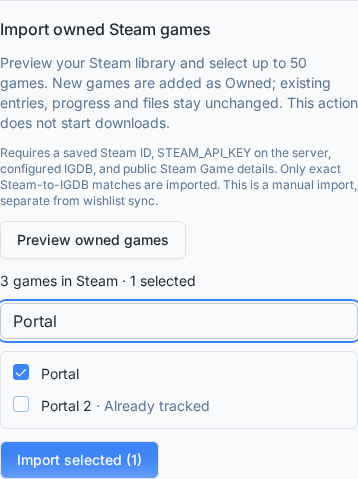
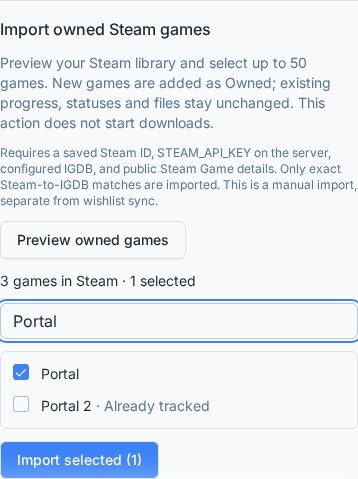
Batch Steam metadata and link existing library entries

Changed region(s): [[0.0, 0.2046, 1.0, 0.2923]]

diff --git a/server/steam-library-routes.ts b/server/steam-library-routes.ts
@@ -5,8 +5,9 @@ import { config } from "./config.js";
 import { storage } from "./storage.js";
 import { steamService } from "./steam.js";
 import { igdbClient } from "./igdb.js";
-import { quickAddGameByTitle } from "./game-quick-add.js";
-import type { User } from "../shared/schema.js";
+import { getContentFilterFlags, isContentFiltered } from "./content-filter.js";
+import { normalizeInitialReleaseStatus } from "./game-status.js";
+import { insertGameSchema, type User } from "../shared/schema.js";
 
 export const steamLibraryRoutes = Router();
 const importing = new Set<string>();
@@ -81,6 +82,15 @@ steamLibraryRoutes.post("/api/steam/library/import", async (req, res) => {
     const library = await storage.getUserGames(user.id, true);
     const tracked = new Set(library.map((game) => game.steamAppId));
     const mappings = await igdbClient.getGameIdsBySteamAppIds(ids.filter((id) => !tracked.has(id)));
+    const byIgdb = new Map(
+      library.filter((game) => game.igdbId != null).map((game) => [game.igdbId!, game])
+    );
+    const newIgdbIds = [...new Set(mappings.values())].filter((id) => !byIgdb.has(id));
+    const [details, filterFlags] = await Promise.all([
+      igdbClient.getGamesByIds(newIgdbIds),
+      getContentFilterFlags(user.id),
+    ]);
+    const detailsById = new Map(details.map((game) => [game.id, game]));
     const results: Array<{
       steamAppId: number;
       title: string;
@@ -98,13 +108,37 @@ steamLibraryRoutes.post("/api/steam/library/import", async (req, res) => {
         continue;
       }
       try {
-        const result = await quickAddGameByTitle(user.id, game.title, {
+        const existing = byIgdb.get(igdbId);
+        if (existing) {
+          // Link an exact match once so later previews recognize it. Never replace
+          // another edition's App ID or alter the existing game's status/progress.
+          if (existing.steamAppId == null) {
+            await storage.updateGame(existing.id, { steamAppId: id });
+            existing.steamAppId = id;
+          }
+          results.push({ ...game, outcome: "duplicate" });
+          continue;
+        }
+        const detail = detailsById.get(igdbId);
+        if (!detail) {
+          results.push({ ...game, outcome: "not_found" });
+          continue;
+        }
+        const data = insertGameSchema.parse({
+          ...igdbClient.formatGameData(detail),
+          userId: user.id,
           igdbId,
           steamAppId: id,
           status: "owned",
           source: "steam",
         });
-        results.push({ ...game, outcome: result.outcome });
+        if (isContentFiltered(data, filterFlags)) {
+          results.push({ ...game, outcome: "not_found" });
+          continue;
+        }
+        const added = await storage.addGame(normalizeInitialReleaseStatus(data));
+        byIgdb.set(igdbId, added);
+        results.push({ ...game, outcome: "added" });
       } catch {
         // Keep successful rows and let the user retry only failures. Never log provider URLs/keys.
         results.push({ ...game, outcome: "failed" });

diff --git a/server/__tests__/steam_library.test.ts b/server/__tests__/steam_library.test.ts
@@ -22,7 +22,7 @@ vi.mock("../steam.js", () => ({ steamService: { getOwnedGames: fixtures.owned } 
 vi.mock("../igdb.js", () => ({
   igdbClient: {
     getGameIdsBySteamAppIds: fixtures.mappings,
-    getGameById: fixtures.game,
+    getGamesByIds: (ids: number[]) => Promise.all(ids.map((id) => fixtures.game(id))),
     formatGameData: (game: { id: number; name: string; isAdultContent?: boolean }) => ({
       igdbId: game.id,
       title: game.name,
@@ -152,7 +152,7 @@ describe.each(activeTestDialects())("Steam owned-library (%s)", (dialect) => {
   });
 
   it("keeps duplicate rows when another row fails and lets failed rows retry", async () => {
-    fixtures.game.mockRejectedValueOnce(new Error("IGDB unavailable"));
+    const add = vi.spyOn(ctx.storage, "addGame").mockRejectedValueOnce(new Error("Database busy"));
     const response = await request(app)
       .post("/api/steam/library/import")
       .send({ appIds: [10, 20] });
@@ -168,6 +168,58 @@ describe.each(activeTestDialects())("Steam owned-library (%s)", (dialect) => {
           .send({ appIds: [20] })
       ).body.results[0].outcome
     ).toBe("added");
+    add.mockRestore();
+  });
+
+  it("links an existing IGDB entry so future previews recognize it without changing progress", async () => {
+    const legacy = await ctx.storage.addGame({
+      userId,
+      igdbId: 300,
+      title: "Legacy",
+      status: "playing",
+      userRating: 8,
+    });
+    await ctx.storage.updateGame(legacy.id, { userRating: 8 });
+    fixtures.owned.mockResolvedValue([{ steamAppId: 30, title: "Legacy" }]);
+    fixtures.mappings.mockResolvedValue(new Map([[30, 300]]));
+    expect(
+      (
+        await request(app)
+          .post("/api/steam/library/import")
+          .send({ appIds: [30] })
+      ).body.results[0].outcome
+    ).toBe("duplicate");
+    expect(await ctx.storage.getGame(legacy.id)).toMatchObject({
+      steamAppId: 30,
+      status: "playing",
+      userRating: 8,
+    });
+    expect((await request(app).get("/api/steam/library")).body.games[0].alreadyTracked).toBe(true);
+    expect(fixtures.game).not.toHaveBeenCalled();
+  });
+
+  it("batches metadata and loads the library once, deduplicating IDs added in the same batch", async () => {
+    fixtures.owned.mockResolvedValue([
+      { steamAppId: 40, title: "Edition A" },
+      { steamAppId: 50, title: "Edition B" },
+    ]);
+    fixtures.mappings.mockResolvedValue(
+      new Map([
+        [40, 400],
+        [50, 400],
+      ])
+    );
+    const reads = vi.spyOn(ctx.storage, "getUserGames");
+    const result = await request(app)
+      .post("/api/steam/library/import")
+      .send({ appIds: [40, 50] });
+    expect(result.body.results.map((row: { outcome: string }) => row.outcome)).toEqual([
+      "added",
+      "duplicate",
+    ]);
+    expect(reads).toHaveBeenCalledTimes(1);
+    expect(fixtures.game).toHaveBeenCalledTimes(1);
+    reads.mockRestore();
   });
 
   it("rejects a simultaneous import for the same account", async () => {

diff --git a/client/src/components/SteamLibraryImport.tsx b/client/src/components/SteamLibraryImport.tsx
@@ -17,7 +17,7 @@ interface ImportResult {
 }
 const RESULT_LABELS = {
   added: "Added as Owned",
-  duplicate: "Already tracked — kept unchanged",
+  duplicate: "Already tracked — progress preserved",
   not_found: "No eligible IGDB match — skipped",
   failed: "Import failed — retry this game",
 };
@@ -77,7 +77,7 @@ export function SteamLibraryImport() {
       </h3>
       <p className="text-sm text-muted-foreground">
         Preview your Steam library and select up to 50 games. New games are added as Owned; existing
-        entries, progress and files stay unchanged. This action does not start downloads.
+        progress, statuses and files stay unchanged. This action does not start downloads.
       </p>
       <p className="text-xs text-muted-foreground">
         Requires a saved Steam ID, STEAM_API_KEY on the server, configured IGDB, and public Steam

diff --git a/server/game-quick-add.ts b/server/game-quick-add.ts
@@ -39,8 +39,6 @@ export async function quickAddGameByTitle(
     source?: Game["source"];
     /** Exact IGDB id (e.g. from a request app); skips the free-text title match. */
     igdbId?: number;
-    /** Exact Steam mapping supplied by the official owned-library importer. */
-    steamAppId?: number;
     /** Platform the release search should target instead of the account default. */
     targetPlatform?: { id: number; name: string };
   } = {}
@@ -64,7 +62,6 @@ export async function quickAddGameByTitle(
     userId,
     title: match.title,
     igdbId: match.igdbId,
-    ...(options.steamAppId ? { steamAppId: options.steamAppId } : {}),
     status: options.status ?? "wanted",
     platform: "PC", // Default platform, user can change later
     platforms: match.platforms,

diff --git a/docs/ARCHITECTURE.md b/docs/ARCHITECTURE.md
@@ -322,8 +322,11 @@ Steam app IDs. `steam-library-routes.ts` runs behind the API authentication/CSRF
 boundary and rechecks ownership through `steamService.getOwnedGames` at import
 time. The service calls the official Steam Web API over HTTPS through `safeFetch`.
 Only the server supplies the API key and linked Steam ID. Selected IDs are mapped
-by IGDB's existing external-games lookup, then `quickAddGameByTitle` receives the
-exact IGDB ID, Steam App ID, Owned status and Steam source. It performs the usual
-content filtering and duplicate detection. No files or download clients are
-involved. Existing status/progress data is preserved. This manual workflow uses
+by IGDB's existing external-games lookup. Metadata is fetched in one batch;
+content-filter preferences and the library are loaded once, with an in-memory
+IGDB map updated for every added row. Schema-validated new games use the exact
+IGDB ID, Steam App ID, Owned status and Steam source, with the usual content
+filters and initial release-status normalization. Existing entries may gain a
+missing Steam App ID but keep their status/progress. No files or download clients
+are involved. This manual workflow uses
 the existing game fields and adds no migration or background task.

diff --git a/docs/STEAM_LIBRARY.md b/docs/STEAM_LIBRARY.md
@@ -13,9 +13,12 @@ not an apparently successful empty sync. Steam licenses unavailable to that API
 
 New games use exact Steam App ID → IGDB mappings, respect account content filters,
 and are added as **Owned** with source `steam`. Unmapped or filtered games are
-skipped, not guessed by title. Existing entries (including Wanted, Playing,
+skipped, not guessed by title. Existing game states (including Wanted, Playing,
 Completed, hidden games, ratings, journals and file paths) stay unchanged, even
-when matched by IGDB ID rather than Steam ID. Repeating an import skips duplicates.
+when matched by IGDB ID rather than Steam ID. Exact existing IGDB matches gain a
+missing Steam App ID so later previews recognize them; an existing Steam App ID
+is never replaced. Multiple Steam editions mapping to one IGDB game stay a single
+entry; tracking every edition's provenance remains future work. Repeating an import skips duplicates.
 Each row reports added, already tracked, no eligible match, or failed; successful
 rows are retained if another fails. The importer does not start downloads or move
 files. Normal account automation continues to apply to owned games afterward.

diff --git a/docs/API.md b/docs/API.md
@@ -544,7 +544,8 @@ require the usual CSRF header. Responses use `Cache-Control: no-store`.
   integer IDs. Ownership is checked again with Steam before any write. Returns
   `{ results: [{ steamAppId, title, outcome }] }`, where outcome is `added`,
   `duplicate`, `not_found` (unmapped or content-filtered), or `failed`. New games
-  are Owned/source `steam`; existing games remain unchanged. Invalid/stale
+  are Owned/source `steam`; existing game states remain unchanged, with missing
+  Steam App IDs linked on exact IGDB matches. Invalid/stale
   selections return 400, a concurrent import by the same account returns 409,
   and an upstream batch failure returns 502. Partial row failures return 200
   with per-row outcomes so callers can retry explicitly.
